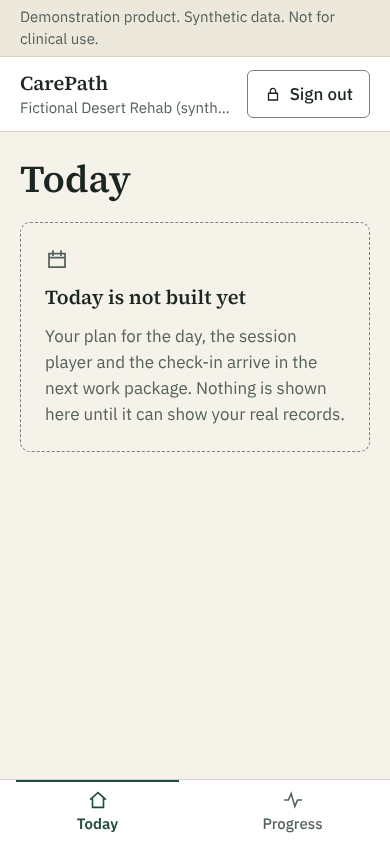
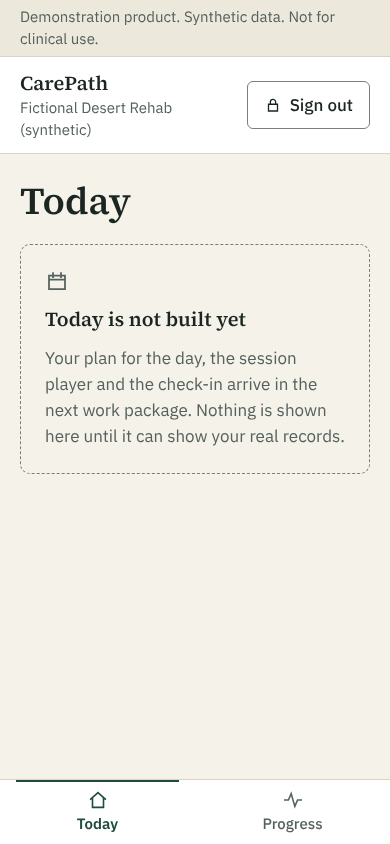
WP 3.2a: CLAUDE.md commands, PROGRESS gate log, refreshed screenshots
Claude-Session: https://claude.ai/code/session_014v9e5gMfiV1hcVwHeYzrH2

Changed region(s): [[0.0308, 0.1232, 0.8923, 0.5237], [0.6769, 0.0924, 0.9538, 0.154], [0.4615, 0.1232, 0.5538, 0.154]]

diff --git a/docs/PROGRESS.md b/docs/PROGRESS.md
@@ -12,15 +12,15 @@ Date: 2026-11-19. Synthetic data only; not for clinical use.
 - WP 2.2 Tooling probe (`docs/decisions/tooling-probe.md`). Accepted at checkpoint C1. Failures are recorded there as failures: the Playwright browser download and the HL7 packages are blocked; system Chrome 153 with Playwright 1.65.1 is an unverified version pairing.
 - Checkpoint C1 (`docs/decisions/checkpoint-c1.md`): go for Phase 3, conditional on WP 3.0.
 - WP 3.0 C1 must-fixes M1 to M7 plus the fixed-clock hook (gate output below).
+- WP 3.2a Web foundation: `/api` rewrite, typed API helpers, TanStack Query provider, sign-in with demo mode, sign-out, role-guarded patient/clinician/admin shells, apps/web ESLint style ban, end-to-end stage in `pnpm verify` (gate output below).
 
 ## Outstanding
 
 - WP 3.1 (API for Scenarios A to D, with the M8 enumeration test as a hard gate), WP 3.2a, 3.2b and 3.3, per C1 section 5. Route table: `docs/architecture/api-phase3.md`.
 - WP 6.3 tunes and times the `full` seed profile (the profile exists and runs, see WP 2.6 notes).
 - Phases 4 to 9 per `docs/decisions/advisor-plan.md` as amended by C1.
-- `pnpm verify` skips the Playwright/axe stage until WP 3.2a. The migrate and seed stages run.
 - PRD section 9 still differs from the schema; C1 section 3.7 assigns a pass to align it now that M2 has landed.
-- `CLAUDE.md` "Commands" still describes `scripts/db.sh start|stop|reset|status` and a verify run that tears the database down. Since WP 3.0, gates take a lease through `scripts/gate-env.sh` and never stop a shared cluster. The orchestrator owns that file; it was not edited here.
+- Interim pages from WP 3.2a (Today, Progress, Overview, Patients, Review queue, Administration) are honest empty states; WP 3.2b, 3.3 and a later admin phase replace them.
 
 ## Blockers
 
@@ -272,3 +272,33 @@ Notes and deviations:
 - Prisma interactive transactions over `@prisma/adapter-pg` 7.10.1 print a `pg` deprecation warning ("client.query() when the client is already executing a query") from inside Prisma's query interpreter. Queries are still queued in order under `pg` 8; `pg` 9 removes that queueing, so a `pg` upgrade needs a Prisma adapter that awaits each query.
 - Not done: no Next.js rewrite or web code (owned by WP 3.2a); no Phase 3 endpoints or their contracts beyond the names in the route table (WP 3.1); CI still never run.
 
+### WP 3.2a
+
+Command: `scripts/gate-wp-3.2a.sh` (ports 4032 and 3032, database `carepath_wp32_<pid>`), and `pnpm verify` (ports 4090 and 3090). Output tail of the end-to-end stage:
+
+```
+==> end-to-end (API + next start + Playwright + axe)
+Running 26 tests using 1 worker
+  ✓  4 [mobile-390] › patient: signs in, stays in its own shell, is refused the others, signs out
+  ✓  6 [mobile-390] › physical_therapist: signs in, stays in its own shell, is refused the others, signs out
+  ✓  8 [mobile-390] › care_coordinator: signs in, stays in its own shell, is refused the others, signs out
+  ✓ 10 [mobile-390] › clinic_admin: signs in, stays in its own shell, is refused the others, signs out
+  (same 13 tests again at desktop-1440)
+  26 passed (41.2s)
+verify: PASSED
+```
+
+`pnpm verify` ran in a clean worktree of the commit: migrate, seed (72 integrity checks), typecheck, lint, tests (ui 106, db 58, api 97, web 16), build, end-to-end, exit 0, no skipped stages. Note: in the working tree at that moment, lint failed on files owned by WP 3.1 (`packages/shared/src/contracts/*.ts` committed unformatted in f73b0a7, and in-flight API files); the worktree run formatted the contracts without committing it. WP 3.1 must run `pnpm format` on its files.
+
+What the tests cover: each of the four roles signs in by form and by the demo button, lands in its shell, sees only the working nav items, is redirected away from the other two shells, is refused by the API for a permission it lacks, signs out, and is then refused again. axe (wcag2a, 2aa, 21a, 21aa, 22aa) runs on every page visited at 390 and 1440 wide and fails on serious or critical findings. Screenshots: `docs/screenshots/3.2a/`.
+
+Notes and deviations:
+
+- Care coordinators and clinic administrators both use the admin shell (`/admin`), because they have no `clinical.read` (C1 ruling 3.7) and the clinician overview needs it. Only physical therapists use the clinician shell.
+- The web build uses webpack (`next build --webpack`) with an `extensionAlias` for `.js` to `.ts`: Turbopack failed to resolve `./auth.js` inside `@carepath/shared`. Switching contracts to extensionless imports would let Turbopack back in.
+- The `/api` rewrite destination is fixed at build time from `API_PORT` (or `API_ORIGIN`). A gate must build with the API port it will run with.
+- The ESLint style rule exempts `app/(public)/design-system/**`, which predates it and uses a few arbitrary layout values. `apps/web/test/style-rule.test.mjs` proves 11 violations fail and token classes pass.
+- Observed: the Next rewrite forwards `X-Forwarded-For`, so with `TRUST_PROXY=loopback` the login rate limit is per client address (two clients behind one proxy were limited separately). The e2e API raises the login limit to 500 per minute because the suite signs in about 50 times from one address.
+- Not exercised end to end: the client-side `session_expired` redirect (no page issues a client query yet; the fixed API clock cannot idle out a session). The server-side guard, the expired notice and the sign-out-with-dead-session path are tested.
+- Interim pages are empty states, not stubs with fake data; they exist because the shells must show their nav items.
+- No contract requests were needed.

diff --git a/CLAUDE.md b/CLAUDE.md
@@ -16,6 +16,7 @@ Authority order: `docs/decisions/advisor-plan.md` overrides `docs/BRIEF.md` wher
 ## Design principles
 
 - Follow advisor plan section 4: one token set, two themes via `data-theme`, self-hosted fonts, no gradients, no purple, no glass, never colour alone for status.
+- In `apps/web`, ESLint bans raw colour values and Tailwind arbitrary values (`bg-[#fff]`, `w-[13px]`); use token utilities from `@carepath/ui`. Only the `/design-system` gallery is exempt.
 - No dead buttons, fake charts, hardcoded interactions, or placeholder text. A route with no working action is removed, not stubbed.
 - Every app shell shows "Demonstration product. Synthetic data. Not for clinical use."
 
@@ -24,9 +25,14 @@ Authority order: `docs/decisions/advisor-plan.md` overrides `docs/BRIEF.md` wher
 - Install: `pnpm install`
 - Typecheck / lint / test / build: `pnpm typecheck`, `pnpm lint`, `pnpm test`, `pnpm build`
 - Format: `pnpm format`
-- Database (native, port 54329, data in `.data/pg`): `scripts/db.sh start|stop|reset|status`
-- Seed: `pnpm db:seed [--profile small|full] [--check]` replaces all tenant data with deterministic synthetic data (demo logins in `docs/demo-accounts.md`).
-- Full gate: `pnpm verify` (db start, typecheck, lint, tests, build, teardown). Stages not yet implemented print as SKIPPED with the WP that adds them.
+- Database (native PostgreSQL 16, port 54329, data in `.data/pg`): `scripts/db.sh start|stop|reset|status|acquire|release|drop`. Many workers share one cluster. Gates never call `stop` or `reset`; they take a lease (`acquire`) and release it on exit. `stop` and `reset` refuse while a live lease exists (exit 3) unless `--force`. The database named `carepath` is for hand use by the orchestrator; every gate works in its own database.
+- Gate environment: `source scripts/gate-env.sh <name> <api_port> [web_port]` sets `DB_LEASE_PID`, `CAREPATH_DB=carepath_<name>_<pid>`, `DATABASE_URL`, `API_PORT`, `WEB_PORT` and `CORS_ORIGINS`, acquires the lease, and on exit drops that database and releases the lease. Every `scripts/gate-wp-*.sh` and `scripts/verify.sh` starts this way.
+- Ports (never 3000 or 4000 in a gate): `pnpm verify` API 4090 and web 3090; WP 3.1 API 4031; WP 3.2 API 4032 and web 3032; WP 3.3 API 4033 and web 3033.
+- Seed: `pnpm db:seed [--profile small|full] [--anchor now] [--check]` replaces all tenant data in the current `DATABASE_URL` with deterministic synthetic data (demo logins in `docs/demo-accounts.md`). Run `pnpm db:migrate` first on a fresh database.
+- Web: no `next dev`. The web build, `next start` and Playwright share `apps/web/.next`, so they run under `scripts/with-web-lock.sh`. Next rewrites `/api/*` to the API at build time from `API_PORT` (or `API_ORIGIN`), so build with the same `API_PORT` the servers will use.
+- End-to-end stage: `scripts/e2e.sh` (inside a gate environment, under the web lock) starts the API with `CAREPATH_FIXED_NOW` set to the seed anchor and `next start`, then runs Playwright with axe on system Chrome (`PLAYWRIGHT_CHROME_PATH`, default `/usr/bin/google-chrome`). The tests fix the browser clock to the same instant.
+- Full gate: `pnpm verify` (lease and own database, migrate, seed, typecheck, lint, tests, build, end-to-end). Run it from a stopped or shared cluster; it never stops a cluster someone else leased. Work package gates (`scripts/gate-wp-*.sh`) lint, type-check and test only the paths the package owns.
+- Commits name paths explicitly (never `git add -A`). A dependency change is its own commit, made right after `pnpm install`.
 - No Docker daemon in the build environment: `docker-compose.yml` is unverified.
 - Servers do not survive between turns. Every gate is one command that starts what it needs, tests, and tears down.
 
